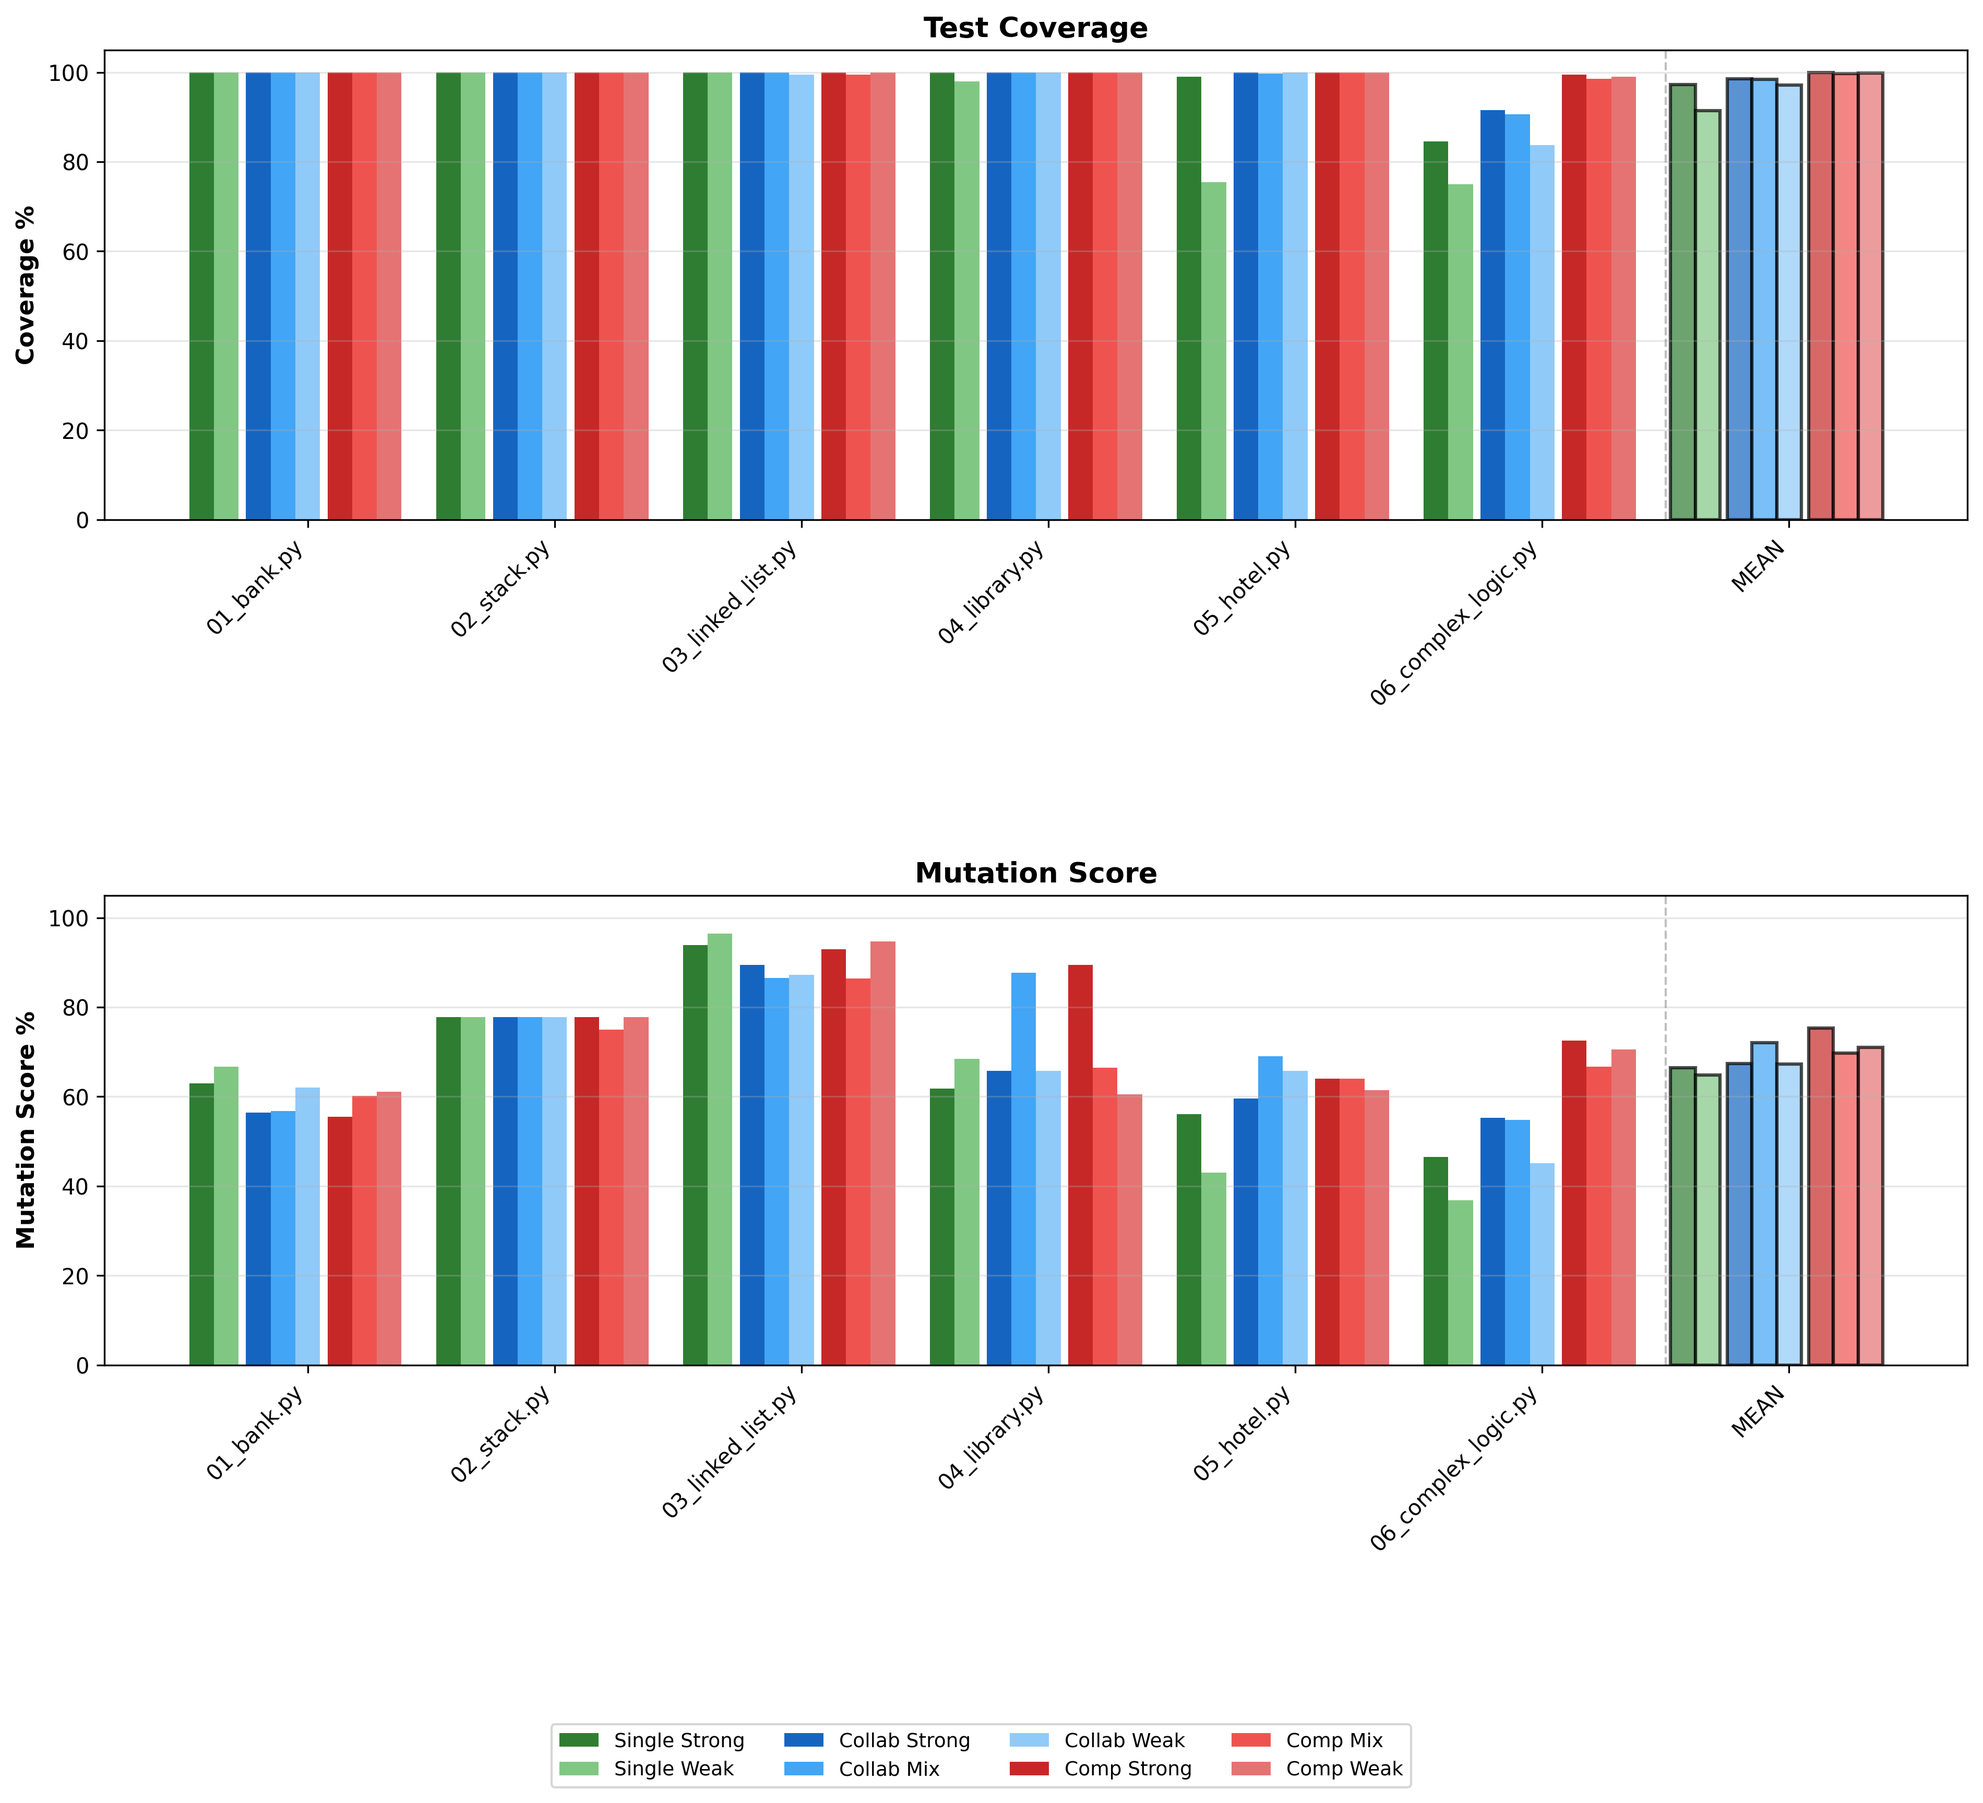
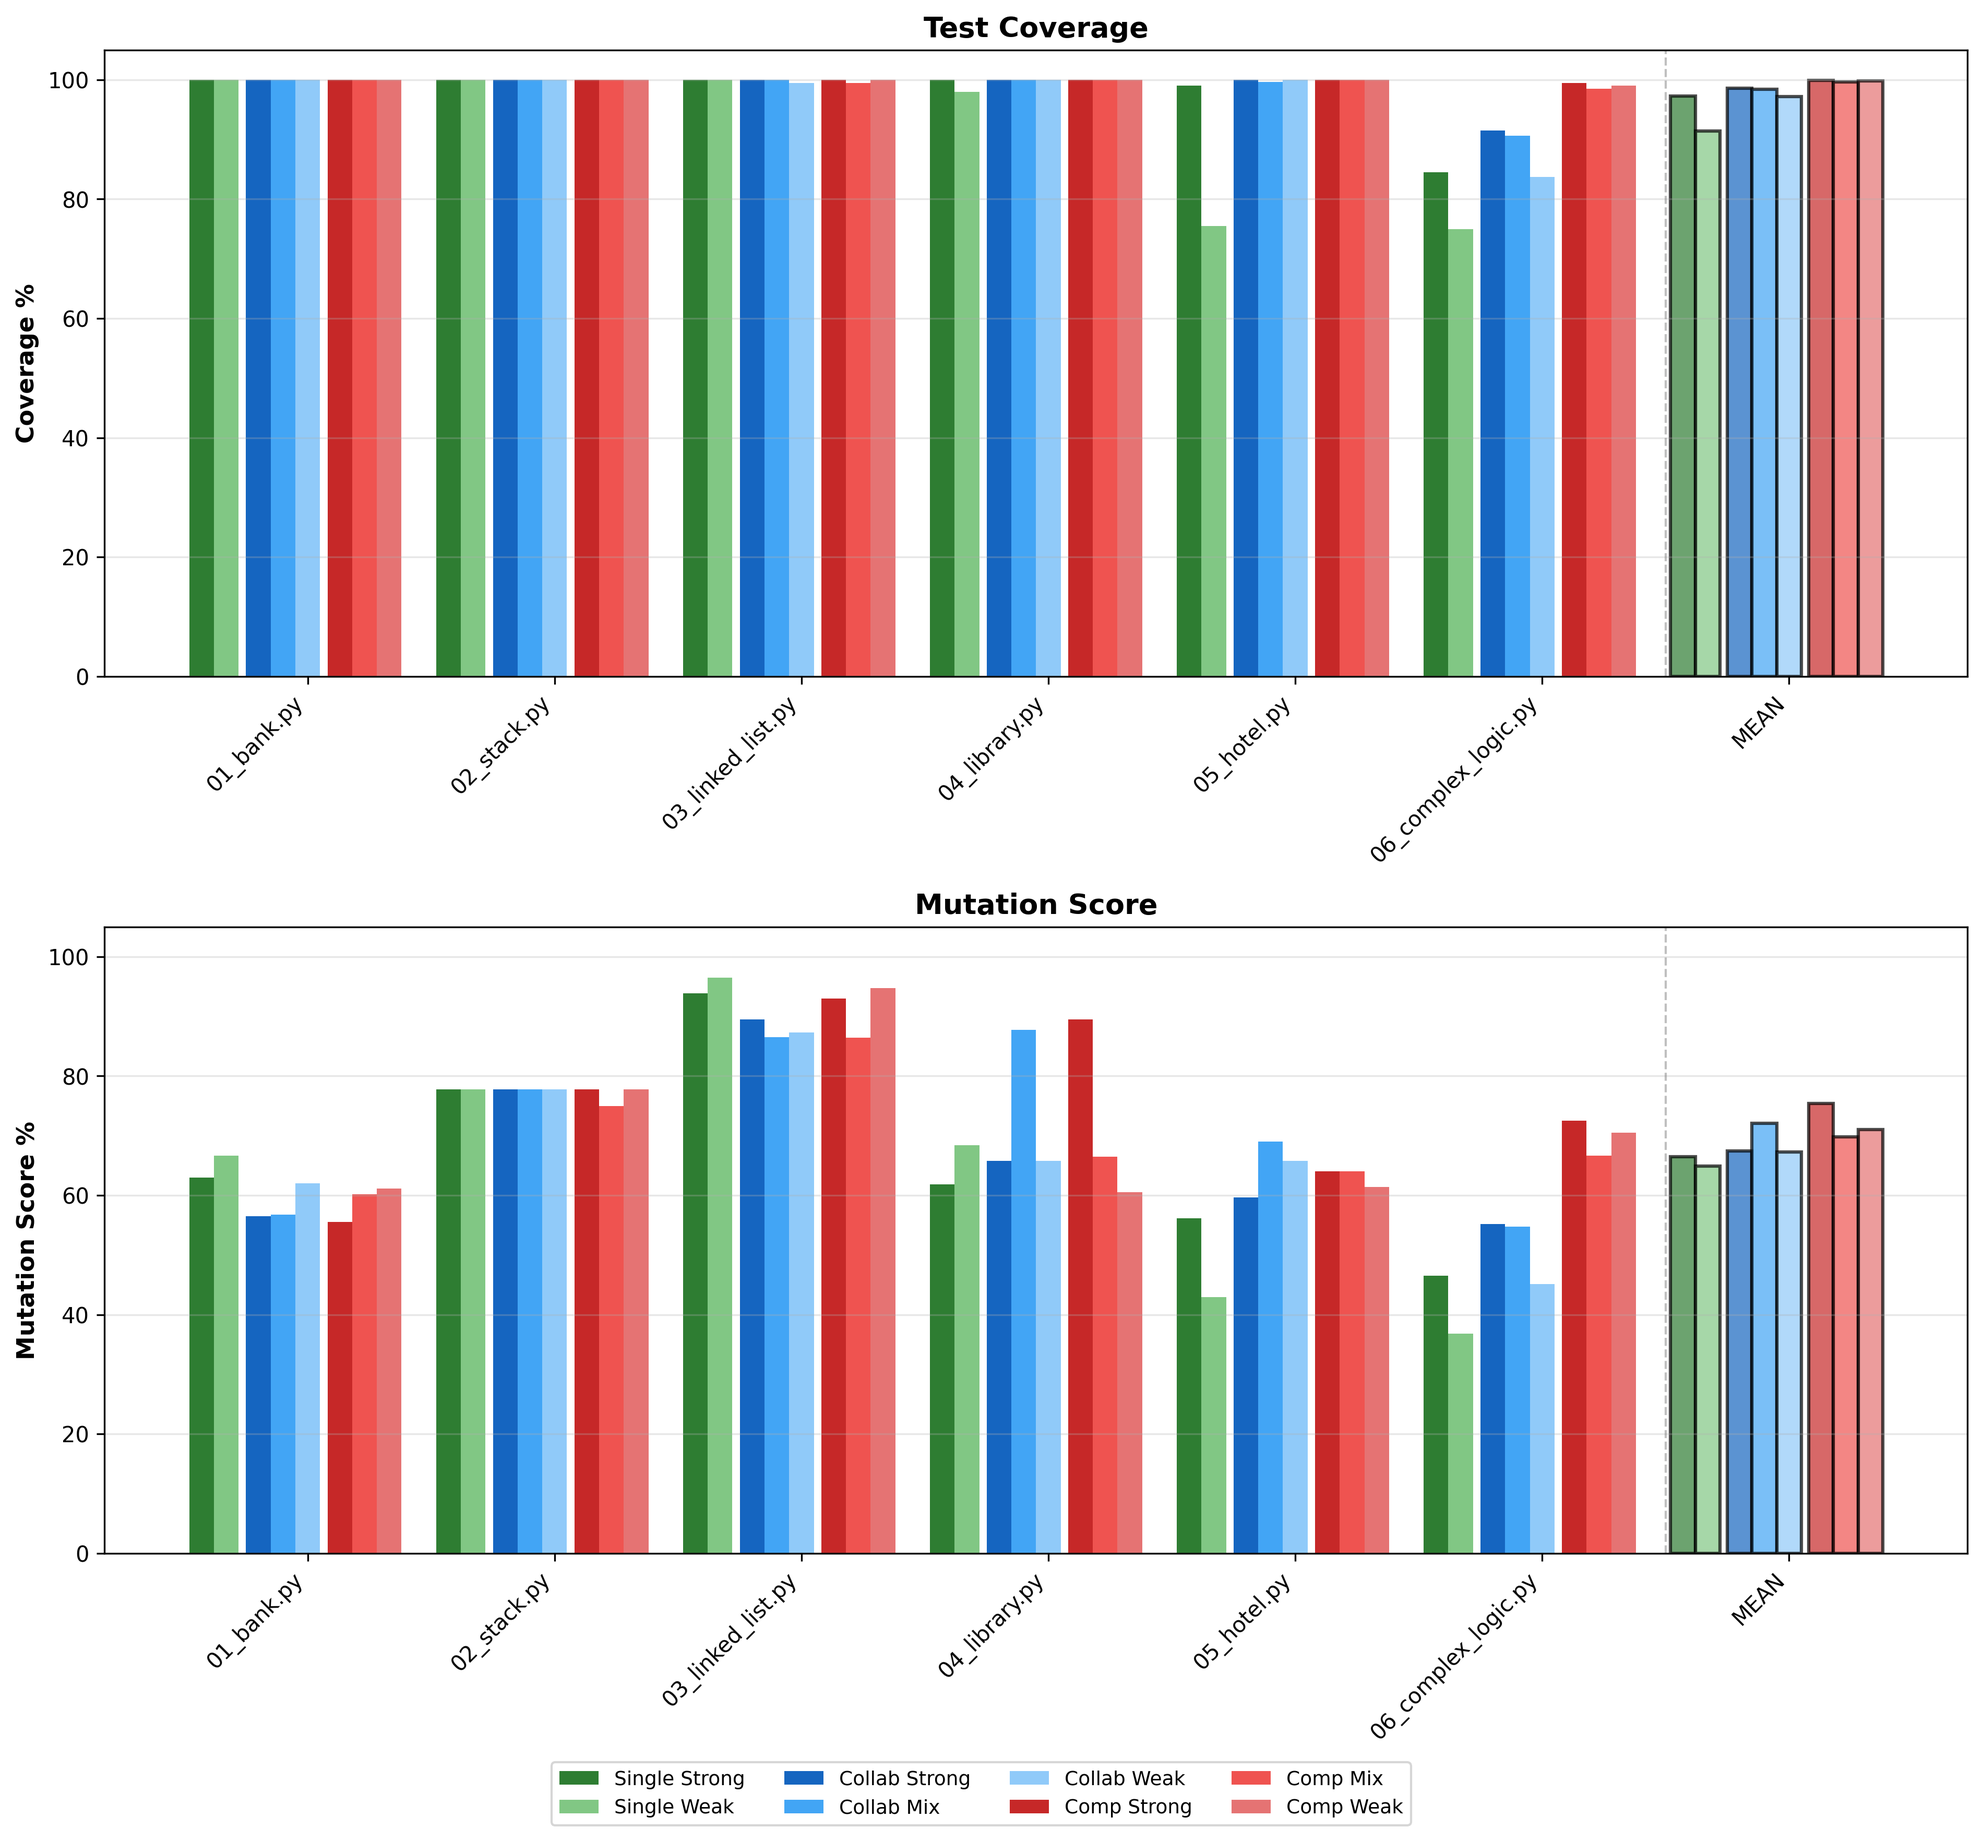
fix: comparison plotting

diff --git a/results_plot.py b/results_plot.py
@@ -304,7 +304,7 @@ def plot_metrics(aggregated_data, output_folder):
     # Aggiungi una linea verticale prima di MEAN per separarlo
     ax2.axvline(x=len(files) - 0.5, color='gray', linestyle='--', linewidth=1, alpha=0.5)
     
-    plt.subplots_adjust(bottom=0.25, hspace=0.8, left=0.1, right=0.95, top=0.95)
+    plt.subplots_adjust(bottom=0.15, hspace=0.4, left=0.1, right=0.95, top=0.95)
 
     # La legenda va spostata ancora più in basso dato che abbiamo alzato il margine bottom
     handles, labels = ax1.get_legend_handles_labels()
@@ -312,7 +312,7 @@ def plot_metrics(aggregated_data, output_folder):
         handles, 
         labels,
         loc='lower center', 
-        bbox_to_anchor=(0.5, 0.02),
+        bbox_to_anchor=(0.5, 0.0),
         ncol=4,
         fontsize=9,
         frameon=True
